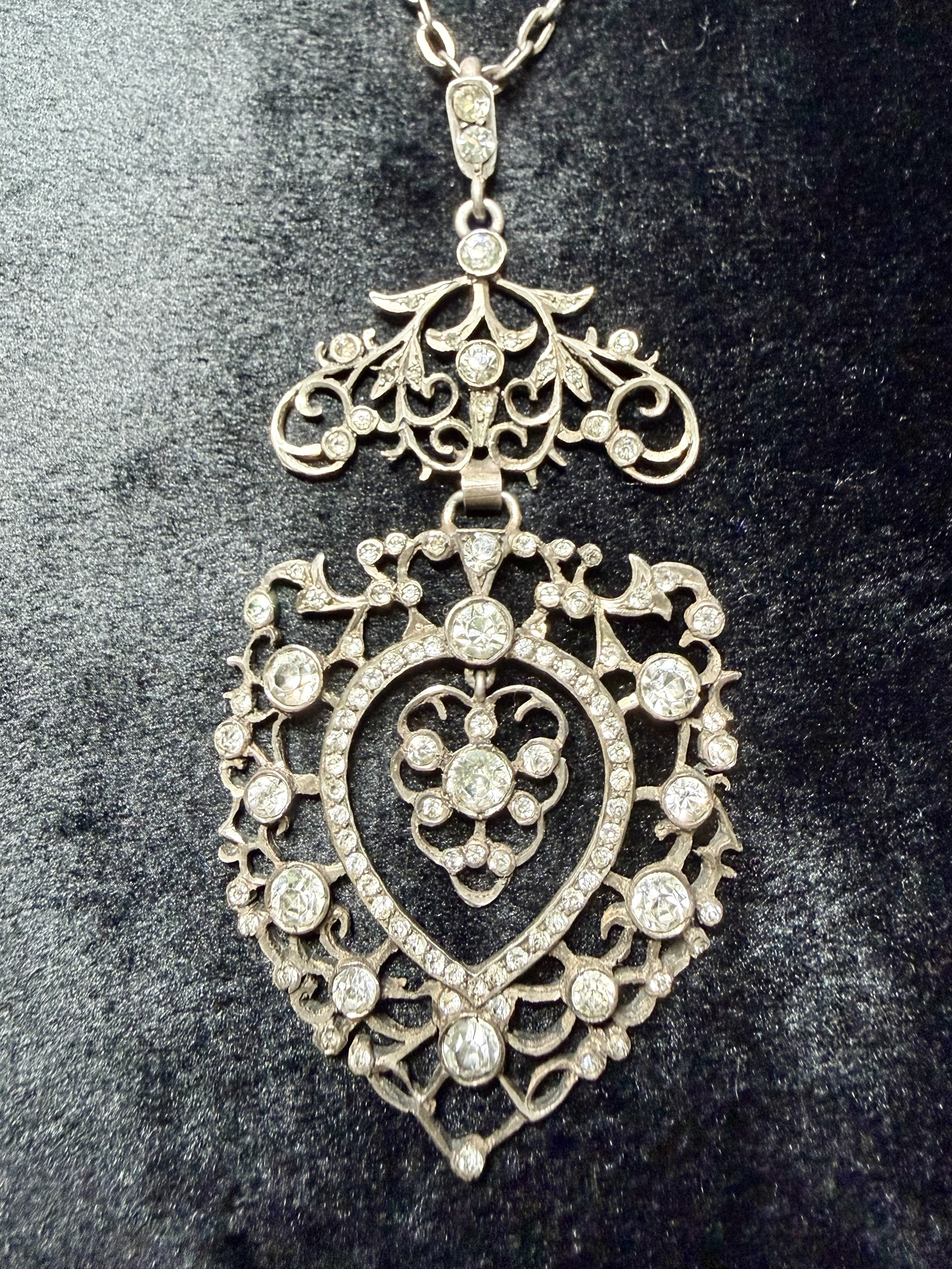
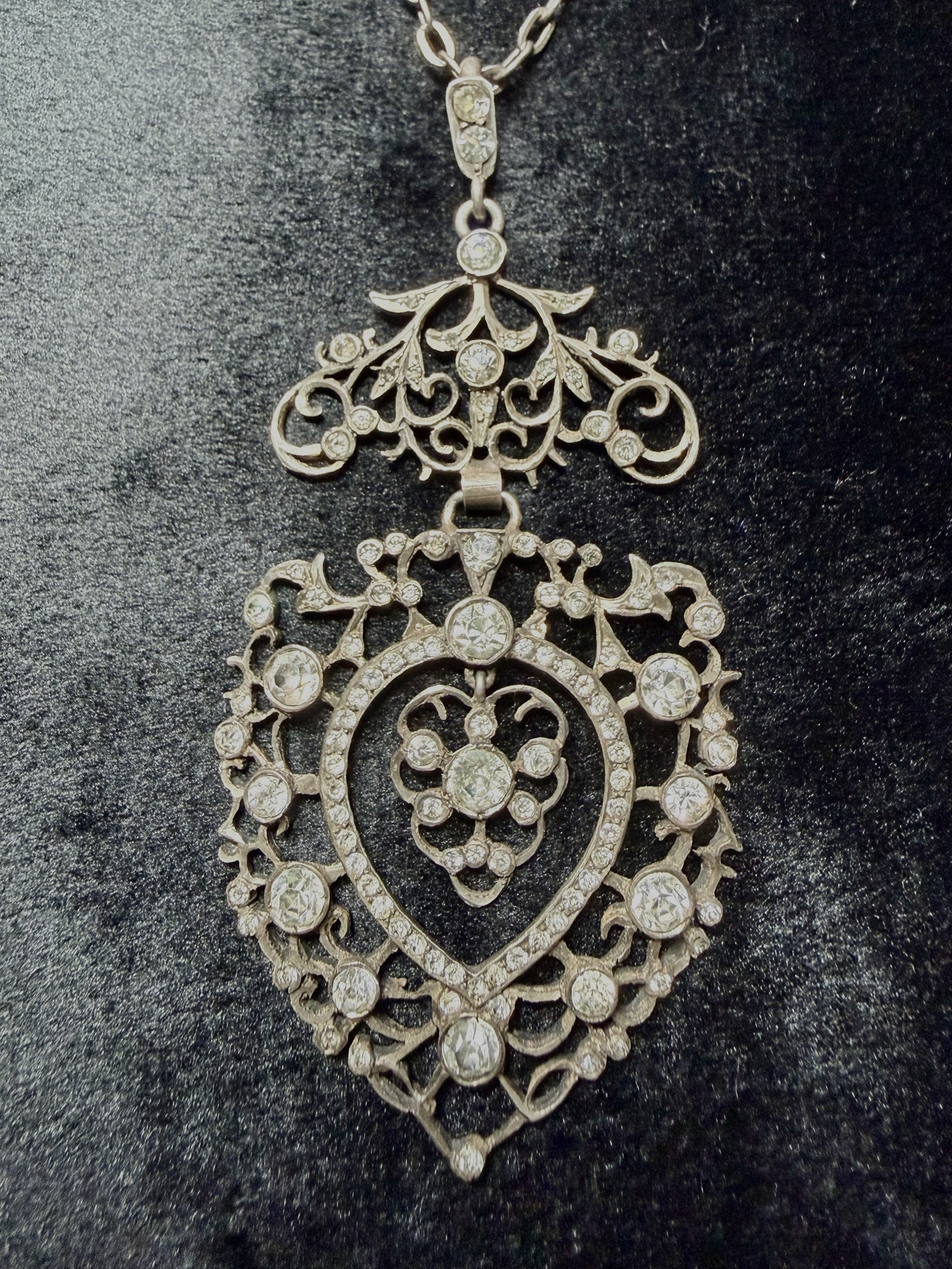
t030 调暗 20%；著录开头改为「法国诺曼底风格」
Claude-Session: https://claude.ai/code/session_0146WwfpqSoST3wS5kAsYEcA

diff --git a/assets/data.js b/assets/data.js
@@ -37,7 +37,7 @@ const collection = {
     { id:"t023", title:"香奈儿太阳勋章项链", year:"1983", origin:"法国", type:"珠宝", image:"/images/treasures/t023_standard.jpg", description:"香奈儿制，法国，1983年。铜镀金吊坠取勋章形制：中心双C置于盾形纹章内，双头鹰展翅环抱，外环十四道宽窄相间的尖芒，芒间刻波纹；背面锤击纹，署品牌标记与年份。顶接圆环，重型绞绳链。吊坠直径4.4厘米，链长89厘米，113克。", articleLink:"c012", forSale:false },
     { id:"t024", title:"纹章累丝手链", year:"约1950", origin:"葡萄牙", type:"珠宝", image:"/images/treasures/t024_standard.jpg", description:"推测为葡萄牙波尔图产。六枚穹面牌片，每片中心嵌珐琅徽记，四周填波尔图传统累丝，作四叶形围绕徽记。纹样牌片交替：三枚葡萄牙基督骑士团十字，三枚王冠葡萄牙国徽。以跳环串联、弹簧扣闭合。835银镀金，19×2.5厘米，32克。", forSale:false },
     { id:"t025", title:"仿慈悲勋章项链", year:"约1955", origin:"美国", type:"珠宝", image:"/images/treasures/t025_standard.jpg", description:"Coro制。吊坠取法奥斯曼慈悲勋章。五角星臂面刻放射细纹，尖端缀小球，臂间缀镂空涡卷，中心红珐琅圆牌覆苏丹图拉式花押，外环白珐琅带间以绿珐琅饰带仿奥斯曼铭文，下铸回历1295年，即1878年。顶接圆环，重型绞绳双链承之。直径6.2厘米。72克。", forSale:false },
-    { id:"t030", title:"诺曼底心形吊坠", year:"约1880", origin:"法国", type:"珠宝", image:"/images/treasures/t030_standard.jpg", description:"诺曼底地方首饰。可开合吊环镶两粒仿钻，经小环与包镶单石接对称镂空卷草饰，以管环铰接心形主体。外框手工锯镂卷草，大中小三级仿钻均为封底包镶；框内一周小粒仿钻勾出心形，心尖下悬可摆动的心形花簇，中心大石环绕八粒小石。银，7.6×3.7厘米，11.3克。", forSale:false },
+    { id:"t030", title:"诺曼底心形吊坠", year:"约1880", origin:"法国", type:"珠宝", image:"/images/treasures/t030_standard.jpg", description:"法国诺曼底风格。可开合吊环镶两粒仿钻，经小环与包镶单石接对称镂空卷草饰，以管环铰接心形主体。外框手工锯镂卷草，大中小三级仿钻均为封底包镶；框内一周小粒仿钻勾出心形，心尖下悬可摆动的心形花簇，中心大石环绕八粒小石。银，7.6×3.7厘米，11.3克。", forSale:false },
   ],
   chronicles: [
     { id:"c005", group:"craft", title:"礼服的工艺制度剖析", image:"/images/regalia/r006_standard.jpg", image2:"/images/chronicles/c001b.jpg", image3:"/images/chronicles/c001c.jpg", image4:"/images/chronicles/c001d.jpg", imageLayout:"grid4", excerpt:"<strong>工艺</strong><br><br>这件1931年式法国陆军医官大礼服出自巴黎第八区Thorn。彼时该地区是法国军服定制业的核心门牌，客户以军官及外交官为主。面料为中厚挺括礼服毛呢，黑色，织物密度足以支撑直身廓形。单排9粒扣沿前襟垂直排列，扣面以黄铜镀金铸造，浮雕图案为权杖缠蛇外环月桂，赫尔墨斯权杖的医疗变体，每粒扣面均铸有兵种标识。<br><br>领部与袖口以深红丝绒包覆，切割边缘利落，与黑色毛呢的交界处收口无毛边。领片两侧各施一组金线手工刺绣：左侧橄榄枝，右侧蓟花，以管状金属丝构成，密度均匀，九十年后光泽与张力仍在。袖口丝绒之上，两道金色织带横贯，金线规整。内衬有多圈走线分散受力，是法国军服刺绣工艺的标准高输出。<br><br>整件礼服体现了法兰西制服美学的核心逻辑：以裁缝的精度代替装饰的堆砌，将布料、丝绒、金线与金属扣的材料层级压入严格的几何秩序，使礼服获得建筑与雕塑的同时感，它不是被穿着的，它是被构筑的。<br><br><strong>风格与制度含义</strong><br><br>黑色礼服毛呢配深红丝绒，是第三共和国时期法国军医系统礼服的标准配色。同期法国陆军礼服中，作战兵种多用双排扣，医官等技术兵种以单排扣与作战兵种的双排扣区隔。<br><br>9粒权杖缠蛇扣沿前襟从领口延伸至腰部。佩戴者站定，兵种、职级与机构归属即在视线接触中同时完成识别。" },

diff --git a/_notes/站点手册.md b/_notes/站点手册.md
@@ -218,7 +218,7 @@
 
 - t028 与 c016 的照片已于 2026 年 10 月到货，全部抠图置浅灰米底，补足 3:4（曾试 3:2 横图，策展人定仍用 3:4）。同月策展人另交一组六张替换首批：封面为链条 U 形下垂、两针朝上的正面照；札记 grid6 两列三行，第一行为整链正面与背面，以下依次为学术棕榈、农业功绩勋章、互助会奖章、突尼斯荣耀勋章的正面特写（c016b 背面，c016c–c016f 特写），左上、右上、左下、右下。四张特写原照顶端裁到吊环，抠图后吊环顶端为直边。首批原图存 `_archive/treasures/t028_v1.jpg` 与 `_archive/chronicles/c016b_v1.jpg`–`c016f_v1.jpg`。整链正面与背面随后换为策展人调亮的版本，前一版存 `_archive/treasures/t028_v2.jpg` 与 `_archive/chronicles/c016b_v2.jpg`。封面其后再换一次策展人新交的正面照，上一版存 `_archive/treasures/t028_v3.jpg`。学术棕榈特写 c016c 随后换为策展人重拍的近照（1512×2016，三张候选中对焦最完整的一张，花枝下半部亦清晰），按策展人指定调整后作原图：亮度 ×1.12 再 ×1.30，对比度以中灰 128 为轴加 10%（不以全图均值为轴，否则浅色背景会把暗色器物压暗）；未调整的相机原片存 `_archive/chronicles/c016c_raw.jpg`，上一版存 `_archive/chronicles/c016c_v2.jpg`。新照吊环完整入画，顶端仅链上跳环出画。组图其后增 c016g：互助会奖章与农业功绩勋章的背面并列（策展人摄，两张候选中取铭文较清晰的一张，「MÉRITE AGRICOLE 1883」与「劳动与社会保障部」环铭均可读），置于组图末位。原片上方的狐尾链斜穿画面，抠图前以修补（inpainting）抹去，只留两环顶端的跳环残段，与其余特写顶端处理一致；之后亮度 ×1.10、对比度以中灰为轴加 10%。未照搬 c016c 的 ×1.456：本张原片较亮，那样会使背景发白而被当成器物抠入、白珐琅大片过曝。抠图时星形上臂的白珐琅因与底色过近被模型丢掉，`standardize.py` 的 `FILL_HOLE` 以一个种子点把这块封闭区域补回并从原片取色。未处理的相机原片存 `_archive/chronicles/c016g_raw.jpg`。同月按曝光对齐四张正面特写：以章体亮部（第 90 百分位亮度）为准，学术棕榈 165、农业功绩 190 已在合理区间，不动；互助会奖章 c016e 只加对比度 10%，突尼斯荣耀勋章 c016f 亮度 ×1.07 并加对比度 10%（均以中灰为轴），调后为 173 与 163。未照搬学术棕榈的 ×1.456：那样农业功绩白珐琅过曝约 14%、互助会约 10%，组图反而更不齐。学术棕榈在组图中仍显最暗，原因是深紫珐琅、氧化银面与玫瑰切钻本身吸光，不是曝光不足。调整前的原图存 `_archive/chronicles/c016e_v2.jpg`、`c016f_v2.jpg`。随后补入柬埔寨莫尼萨拉蓬特写 c016h（策展人摄），按链上次序置于突尼斯之后、两章背面之前，组图共八张，桌面两列四行齐整。原片顶端露出狐尾链，以 `CROP_TOP` 裁去顶部 4%，只留跳环残段；只加对比度 10%（以中灰为轴），亮度不动：此章为氧化银，抠图流程的温和归一已把亮部拉到与金色吊环一致，再提亮只增加过曝。未处理的相机原片存 `_archive/chronicles/c016h_raw.jpg`。农业功绩正面特写 c016d 其后换为策展人重拍的一张（更清晰，吊环完整入画，与其余特写一致），只加对比度 10%；抠图时白珐琅六臂几乎全被模型当作底色丢掉（旧版亦缺两臂），以 `FILL_HOLE` 的六个种子点补回，星臂与花环之间的真镂空仍透底。上一版存 `_archive/chronicles/c016d_v2.jpg`，相机原片存 `c016d_raw.jpg`。
 - 全站图片亮度与对比度校准（2026 年 10 月）：对网页实际可见的 92 张图逐张测量，抠图件取器物本身、实拍件取整幅的平均亮度与亮度标准差（对比度），按浅灰米抠图、黑底、实拍底三组各自比较。只处理偏离组均值约 1.5 个标准差以上、且偏离不由材质本身造成的图，且只往均值挪一小段：灰色与深色礼服 r002、r006、r015 加对比度（原片 ×1.3，经抠图流程归一后实际约 +5–15%），深色礼服 r005、r007、r012 以 gamma 0.85–0.9 提亮中间调；实拍细部 c001c、c003d（深色呢料）提亮中间调，c003c（灰呢纽扣）、c009b（珍珠刺绣）、c015c（Spink 内衬）加对比度 15%，后两者略压亮度。白缎、黑丝绒、金器等因材质而偏亮或偏暗者不动（如 t026、c013c、c013f、r009、c014d、c017d）；c013h 的 3:2 内衬图为另行裁正的派生图，未纳入。c008d 奥地利勋章证书另作处理：按各行文字的倾斜（自上而下约 0.6° 增至 2°）逐行拉平透视，裁去四周约 5% 后保持 3:4，校平纸面光照不均，纸色定在暖白（约 229/221/201），文字压深。原图仅 480×640，仍在建议重拍之列。以上各图调整前的原片均存 `_archive/<分类>/<编号>_v1.jpg`。
-- t030 诺曼底心形吊坠（2026 年 10 月入馆）：封面首版为卖家正面照（768×1024，有平台水印，存 `_archive/treasures/t030_v1.jpg`），随即换为策展人在黑丝绒上自摄的带链正面照（1512×2016），抠图置黑底 `#161414`（`BG_OVERRIDE`，与 r009、t029 同），链条从顶边出画（`TOP_ALIGN`）；按策展人要求保持原片亮度，跳过抠图流程的色阶拉伸（`KEEP_TONE`），抠图前后器物平均亮度 189 与 187。著录据策展人提供的说明并按照片核对：补入吊环下的包镶单石、对称卷草饰与心形花簇的形制，「封底」改为全部石位（背面照可见），删去照片无法确认的「铅玻璃」与「衬箔」，卖家照中花簇左下一石看似空托，策展人自摄照可见石在，只是较暗，著录已删去「左下一粒缺失」。为免拉低灯箱统一图高，著录压到 131 字（全站最长 144 字）。「诺曼底」「约1880」「银」与 11.3 克尚待上手核对：背面心形顶端三角托上有一枚极小冲印，待以放大镜辨读。
+- t030 诺曼底心形吊坠（2026 年 10 月入馆）：封面首版为卖家正面照（768×1024，有平台水印，存 `_archive/treasures/t030_v1.jpg`），随即换为策展人在黑丝绒上自摄的带链正面照（1512×2016），抠图置黑底 `#161414`（`BG_OVERRIDE`，与 r009、t029 同），链条从顶边出画（`TOP_ALIGN`）；按策展人要求保持原片亮度，跳过抠图流程的色阶拉伸（`KEEP_TONE`），抠图前后器物平均亮度 189 与 187。随后策展人认为偏亮：对照 K&P（t018，器物平均亮度 158），原片线性调暗 20% 后作原图，器物平均亮度 151、纯白过曝由 15% 降为 0，比 K&P 略暗；未调整的原片存 `_archive/treasures/t030_raw.jpg`。曾试 gamma 压暗中间调以保留石头高光，但颜色偏黄，未采用。著录开头由「诺曼底地方首饰」改为「法国诺曼底风格」（产地归属仅有商家资料支持，写风格不写产地）。著录据策展人提供的说明并按照片核对：补入吊环下的包镶单石、对称卷草饰与心形花簇的形制，「封底」改为全部石位（背面照可见），删去照片无法确认的「铅玻璃」与「衬箔」，卖家照中花簇左下一石看似空托，策展人自摄照可见石在，只是较暗，著录已删去「左下一粒缺失」。为免拉低灯箱统一图高，著录压到 131 字（全站最长 144 字）。「诺曼底」「约1880」「银」与 11.3 克尚待上手核对：背面心形顶端三角托上有一枚极小冲印，待以放大镜辨读。
 - 建议重拍（原图长边不足 1000 像素）：r012、c002b、c008d（t014 与 c006b 已于 2026 年 10 月重拍）。r014、t025、r009、c002c、c008c、c009b 在 770 至 960 像素之间，有机会再补。
 - 断代依据（2026 年 10 月核定）：t021 荣誉军团为四共型，正面无「1870」、背面无创设日期，年份写「1951–1962」；t020 弗朗茨·约瑟夫像配战时绶带无剑饰，年份写「1914–1916」；t026 的 1928 年据埃及印记年号「D」，只在札记中说明，灯箱与卡片不写依据。t015 中心花押经与历任贝伊花押对照为穆罕默德八世·拉明的镂空式样：卡片年份保持「约1950」，灯箱著录只写「贝伊签名花押（1943–1957）」，贝伊名与统治期写在札记（2026 年 10 月，策展人决定）。待查：t027 Spink 迁址年份、t014 制作者印记。
 - 著录缺尺寸重量：t002、t017、t020。
